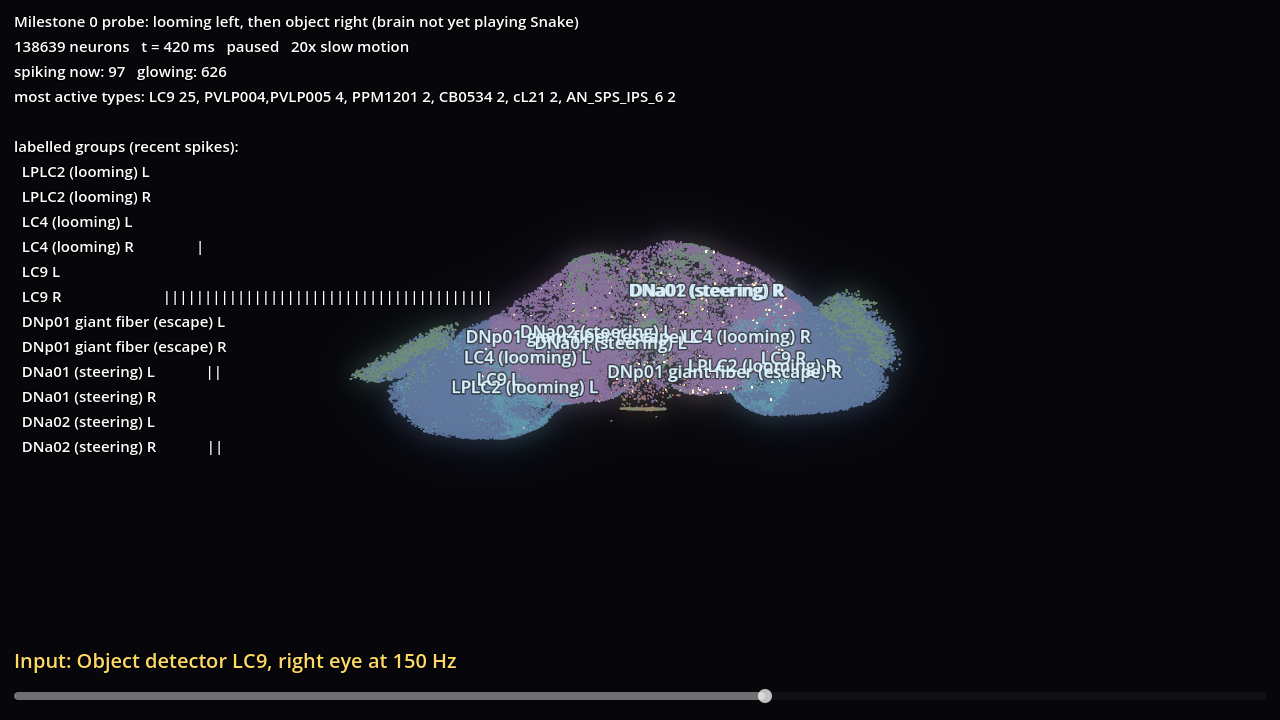
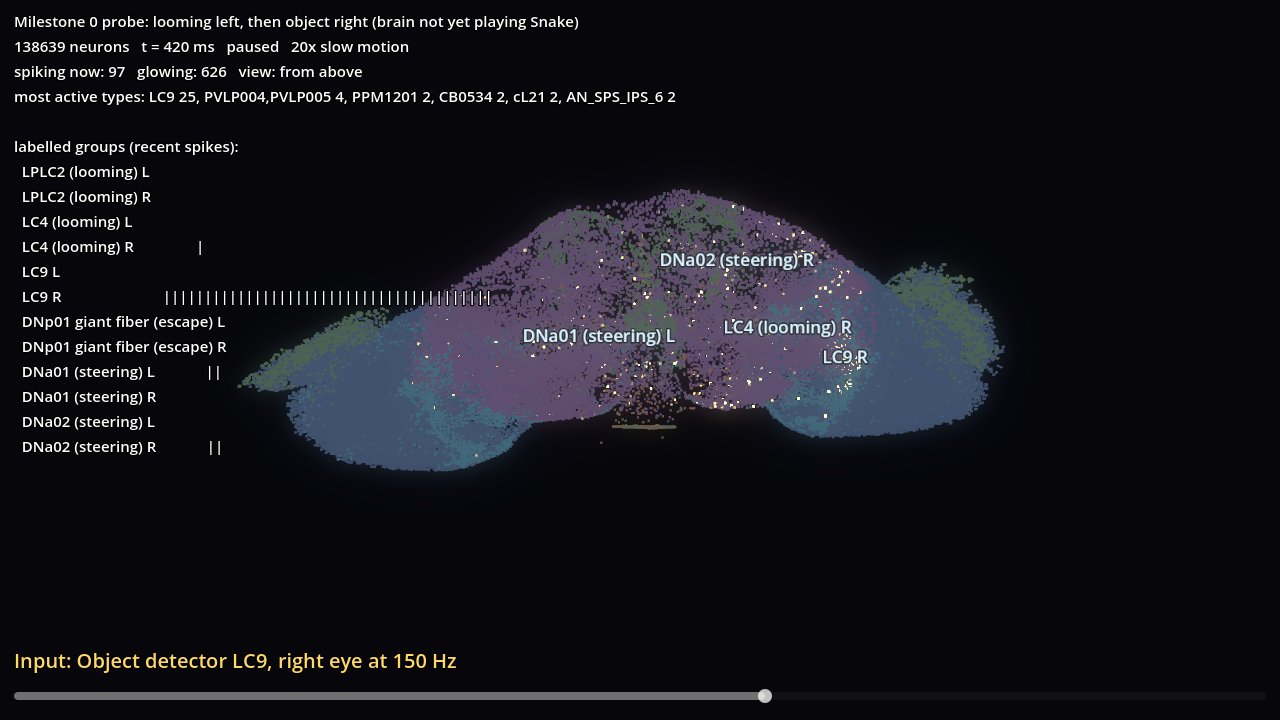
Brain view polish: verified orientation, dimmer base, firing-only labels
- Orientation checked against anatomical landmarks (antennal lobe
  anterior, Kenyon cells posterior-dorsal, left = lower x): not mirrored
- Default view is from behind; added a true front view; HUD states it
- Silent neurons dimmed; labels appear only while their group fires
- tests/test_brain_view.py; 30 tests pass
- Docs updated (progress, viewer README, DEVLOG)

Changed region(s): [[0.1875, 0.2444, 0.7812, 0.6722], [0.1875, 0.0917, 0.2812, 0.1222]]

diff --git a/tests/test_brain_view.py b/tests/test_brain_view.py
@@ -1,0 +1,47 @@
+"""Brain view: orientation of the exported positions, and headless playback in Godot."""
+import json
+import os
+import subprocess
+from pathlib import Path
+
+import numpy as np
+import pytest
+
+ROOT = Path(__file__).resolve().parents[1]
+BRAIN = ROOT / "results" / "brain"
+GODOT = os.environ.get(
+    "GODOT", r"C:\Users\User\tools\godot-4.7.2\Godot_v4.7.2-stable_win64_console.exe")
+needs_recording = pytest.mark.skipif(
+    not (BRAIN / "looming_demo" / "activity.json").exists(),
+    reason="run python -m experiments.record_brain_activity first")
+
+
+@needs_recording
+def test_exported_positions_are_anatomically_oriented():
+    """Viewer axes: +x = fly's right, +y = dorsal, -z = anterior (right-handed, not mirrored).
+
+    Checked against landmarks, not assumed: left-annotated groups have lower x
+    than their right partners, and the looming detectors' cell groups sit in
+    the optic lobes, far from the midline.
+    """
+    meta = json.loads((BRAIN / "neurons.json").read_text())
+    pos = {(l["type"], l["side"]): np.array(l["pos"]) for l in meta["labels"]}
+    for t in ("LPLC2", "LC4", "LC9"):
+        assert pos[(t, "left")][0] < -50 < 50 < pos[(t, "right")][0], t
+    xyz = np.fromfile(BRAIN / "neurons_pos.f32", np.float32).reshape(-1, 3)
+    assert len(xyz) == meta["n"]
+    assert 600 < np.ptp(xyz[:, 0]) < 1000      # brain width in micrometres, with optic lobes
+    assert 150 < np.ptp(xyz[:, 2]) < 400       # front-to-back depth
+
+
+@needs_recording
+@pytest.mark.skipif(not Path(GODOT).exists(), reason="Godot not installed")
+def test_brain_view_plays_every_spike():
+    act = json.loads((BRAIN / "looming_demo" / "activity.json").read_text())
+    out = subprocess.run([GODOT, "--headless", "--path", str(ROOT / "viewer"), "--",
+                          "--brain", "--check"], capture_output=True, text=True, timeout=300)
+    line = next(s for s in out.stdout.splitlines() if s.startswith("BRAIN_CHECK "))
+    check = json.loads(line.split(" ", 1)[1])
+    assert check["ok"]
+    assert check["spiking_neuron_bins"] == act["total_spiking_neuron_bins"]
+    assert check["bins"] == act["n_bins"]

diff --git a/docs/PROGRESS_AND_NEXT_STEPS.md b/docs/PROGRESS_AND_NEXT_STEPS.md
@@ -1,6 +1,6 @@
 # Progress and next steps
 
-Snapshot at the end of the 2026-11-10 session. The full history is in [DEVLOG.md](DEVLOG.md).
+Snapshot at the end of the 2026-11-11 session. The full history is in [DEVLOG.md](DEVLOG.md).
 
 ## How to run it
 
@@ -14,7 +14,7 @@ The first-time setup is in the main README (Python environment, `scripts/fetch_d
 | Back from brain to game | press **G** |
 | Re-run the A\* benchmark | `python -m experiments.astar_baseline --episodes 100 --size 20` |
 | Re-record brain activity | `python -m experiments.record_brain_activity` |
-| All tests | `python -m pytest` (28 tests) |
+| All tests | `python -m pytest` (30 tests) |
 
 On its first run, `run_viewer.bat` records the brain activity (about 30 s on the GPU). It needs Godot at `%USERPROFILE%\tools\godot-4.7.2`; set `GODOT` if it is somewhere else.
 
@@ -30,27 +30,32 @@ Keys are shown on screen. Press **H** to hide them.
 | 1b. Game viewer | Godot 4.7.2 3D replay viewer: four cameras, A\* plan overlay, trap banner |
 | 1c. Brain view | All 138,639 neurons at their real FlyWire positions. Neurons light up as they spike, using **real recorded model activity**. Input bar and per-group spike bars (LPLC2, LC4, LC9, giant fiber DNp01, steering DNa01/DNa02). |
 
-![brain view](images/brain_looming_front.png)
+![brain view](images/brain_looming_behind.png)
 
 ### Important honesty notes
 - **The fly brain is not yet playing Snake.** The brain view currently plays a recording of the Milestone 0 experiment: looming on the left eye, then an object on the right eye. Once the encoder and decoder exist, the same view will show the brain *while it plays*.
 - **Each dot is one point per neuron** (FlyWire's "anchor" point on the neuron's backbone), not the neuron's full shape.
 - **The model has no spontaneous activity.** The brain is dark until input arrives. That is the published model, not a bug.
 
-## Known issues (next session)
-1. The brain-view labels overlap when zoomed out, so they are off by default (press **L**).
-2. The silent-neuron colours are bright enough to compete with the firing glow. Tune them, or start in fade mode (**F**).
-3. **Check left/right orientation.** The screenshot labels make it look possibly mirrored (the viewer may be looking from behind the brain). It must be verified against FlyWire's axes before any figure is published.
-4. A2's benchmark hits the 20,000-move cap (food score is a lower bound).
-5. The interactive controls have only been checked through automated runs and screenshots, not by hand.
+### Orientation of the brain view (verified 2026-11-11)
+The picture is anatomically correct, not mirrored. This was checked against landmarks in the data, not assumed:
+- The antennal lobes (front of the brain) are at low z, and the Kenyon cells (back and top) are at high z and low y.
+- Neurons annotated "left" have lower x.
+- With the viewer's axes (+x = fly's right, +y = up, −z = front) that is a right-handed, un-mirrored frame.
+
+View 1 looks from **behind** the fly, so its left is on your left, the same way round as the snake's own view. View 4 looks from the front. `tests/test_brain_view.py` guards this.
+
+## Known issues
+1. A2's benchmark hits the 20,000-move cap, so its food score is a lower bound.
+2. The interactive controls (mouse, keys, file picker) have been checked through automated runs and screenshots, not by hand.
+3. The HUD's spike bars can overlap the left optic lobe at the default zoom. Zoom or rotate if they get in the way.
 
 ## Next steps, in order
 
-1. **Fix the brain-view issues above** (small).
-2. **Retinotopy: where each visual neuron "looks".** The eyes map space onto columns, so a left-front object should drive the LC/LPLC/T4/T5 neurons whose receptive fields are there. FlyWire provides column assignments and synapse positions. I'll derive each neuron's viewing direction from those, without inventing any. *Why:* without it, the encoder can only say "something on the left" rather than "something 30° left and getting closer".
-3. **Visual encoder (stage 3).** Render the snake's-eye view of the game in Python, compute looming, motion and object features, and turn them into Poisson input rates for those neurons. It is labelled as an engineered encoder, and photoreceptor input is kept as a control.
-4. **Motor decoder (stage 4).** Read the left vs right steering neurons (DNa01/DNa02) and turn them into LEFT / STRAIGHT / RIGHT. No pathfinding, no distance rules, and no A\* path given to the fly.
-5. **Live link.** Python streams game frames and spikes to Godot over a WebSocket, so you watch the snake and the brain side by side as it plays. Replays will store spikes too.
-6. **Make the simulator faster** (event-driven synapses, aiming for 10–50×). This is what makes evolution affordable.
-7. **Evolution (stage 5).** Evolve constrained parameters (input gains, thresholds, decoder weights) and never lose the best genome. Measure learning curves over affordable budgets. 1M generations would take about 866 years on this GPU at the current speed, so we extrapolate instead.
-8. **Experiments (stages 6–7).** Fly vs the A\* ladder, random, reactive and small-ANN controls at long snake lengths; self-trapping metrics; distance and evasion; 20×20 → 50×50 generalisation.
+1. **Retinotopy: where each visual neuron "looks".** The eyes map space onto columns, so a left-front object should drive the LC/LPLC/T4/T5 neurons whose receptive fields are there. FlyWire provides column assignments and synapse positions. I'll derive each neuron's viewing direction from those, without inventing any. *Why:* without it, the encoder can only say "something on the left" rather than "something 30° left and getting closer".
+2. **Visual encoder (stage 3).** Render the snake's-eye view of the game in Python, compute looming, motion and object features, and turn them into Poisson input rates for those neurons. It is labelled as an engineered encoder, and photoreceptor input is kept as a control.
+3. **Motor decoder (stage 4).** Read the left vs right steering neurons (DNa01/DNa02) and turn them into LEFT / STRAIGHT / RIGHT. No pathfinding, no distance rules, and no A\* path given to the fly.
+4. **Live link.** Python streams game frames and spikes to Godot over a WebSocket, so you watch the snake and the brain side by side as it plays. Replays will store spikes too.
+5. **Make the simulator faster** (event-driven synapses, aiming for 10–50×). This is what makes evolution affordable.
+6. **Evolution (stage 5).** Evolve constrained parameters (input gains, thresholds, decoder weights) and never lose the best genome. Measure learning curves over affordable budgets. 1M generations would take about 866 years on this GPU at the current speed, so we extrapolate instead.
+7. **Experiments (stages 6–7).** Fly vs the A\* ladder, random, reactive and small-ANN controls at long snake lengths; self-trapping metrics; distance and evasion; 20×20 → 50×50 generalisation.

diff --git a/viewer/README.md b/viewer/README.md
@@ -34,6 +34,24 @@ What you see:
 
 The head camera sits roughly at the snake's eye position. It is **not** the fly's visual input, which is built by the encoder in Python.
 
+## Brain view
+
+`run_viewer.bat --brain` from the project root, or press **B** in the replay viewer (**G** goes back). It draws all 138,639 neurons at their FlyWire anchor positions and lights each one when it spikes, from a recording made by `experiments/record_brain_activity.py`.
+
+![brain view](../docs/images/brain_looming_behind.png)
+
+| key | action |
+|---|---|
+| Space, ← / →, ↑ / ↓, Home | play, step 2 ms, speed, restart |
+| 1 2 3 4 | view from behind / above / the right side / the front |
+| drag, wheel | rotate, zoom |
+| F | fade silent neurons |
+| L | labels (each appears only while its group is firing) |
+
+View 1 is from behind, so the fly's left is on your left. The orientation is verified against anatomical landmarks (see `docs/PROGRESS_AND_NEXT_STEPS.md`).
+
+The brain is not yet connected to the game. The recording is the Milestone 0 stimulus experiment.
+
 ## Automation
 
 ```bash
@@ -47,5 +65,5 @@ Godot_v4.7.2-stable_win64_console.exe --path viewer -- --replay=<file> --screens
 
 ## Not done yet
 - Live view of running games (WebSocket from Python).
-- Fly-brain overlays (spiking neurons, decoder output) once the brain is connected.
+- The brain view playing alongside a game, once the brain is connected.
 - Smooth interpolation between moves. Frames are shown discretely so what you see is exactly what was recorded.

diff --git a/docs/DEVLOG.md b/docs/DEVLOG.md
@@ -90,3 +90,15 @@
 - Progress and the plan are written up in [PROGRESS_AND_NEXT_STEPS.md](PROGRESS_AND_NEXT_STEPS.md).
 
 **Open issues:** labels overlap; base colours are too bright; **verify left/right orientation**; add a brain-view test to pytest.
+
+## 2026-11-11: Brain view polish and orientation check
+
+**Done**
+- **Orientation verified from landmarks:** antennal lobe anchors at z ≈ 1,300–1,900 voxels (anterior), Kenyon cells at z ≈ 4,600 and low y (posterior, dorsal), and left-annotated neurons at lower x. The exported frame (+x right, +y dorsal, −z anterior) is right-handed, so the view is not mirrored.
+- The default view is from behind (fly's left = screen left). The view previously labelled "front" was really this one. Added a true front view (key 4). The HUD states the viewpoint.
+- Silent neurons dimmed to 45 %. Labels are shown only while their group fires, which removes the overlap.
+- `tests/test_brain_view.py`: orientation and extent checks, plus headless playback of every spike. 30 tests pass.
+
+**Observation (not yet a result):** in the recording, LC9 on the right is followed by spikes in DNa01 left and DNa02 right. That matches the contralateral DNa01 response from Milestone 0. It is one seed, so it needs repeats before it is relied on for the decoder.
+
+**Open issues:** A2 step cap; hand-check of the interactive controls.
